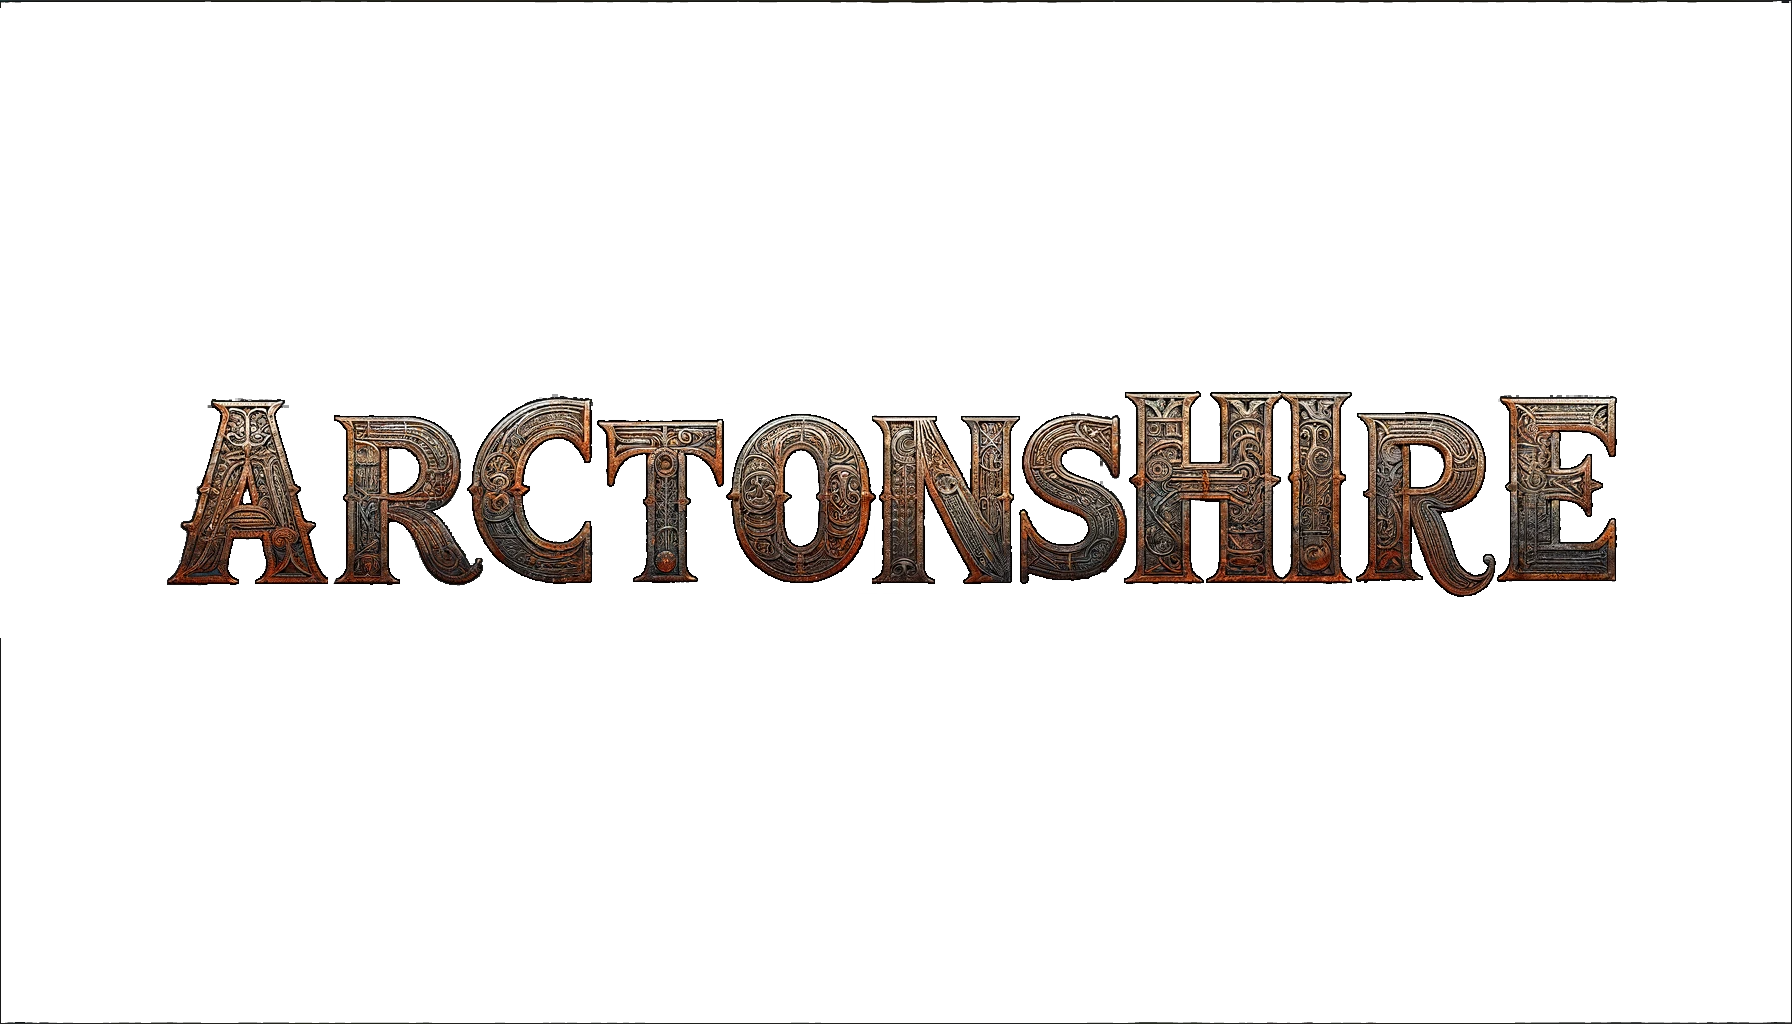
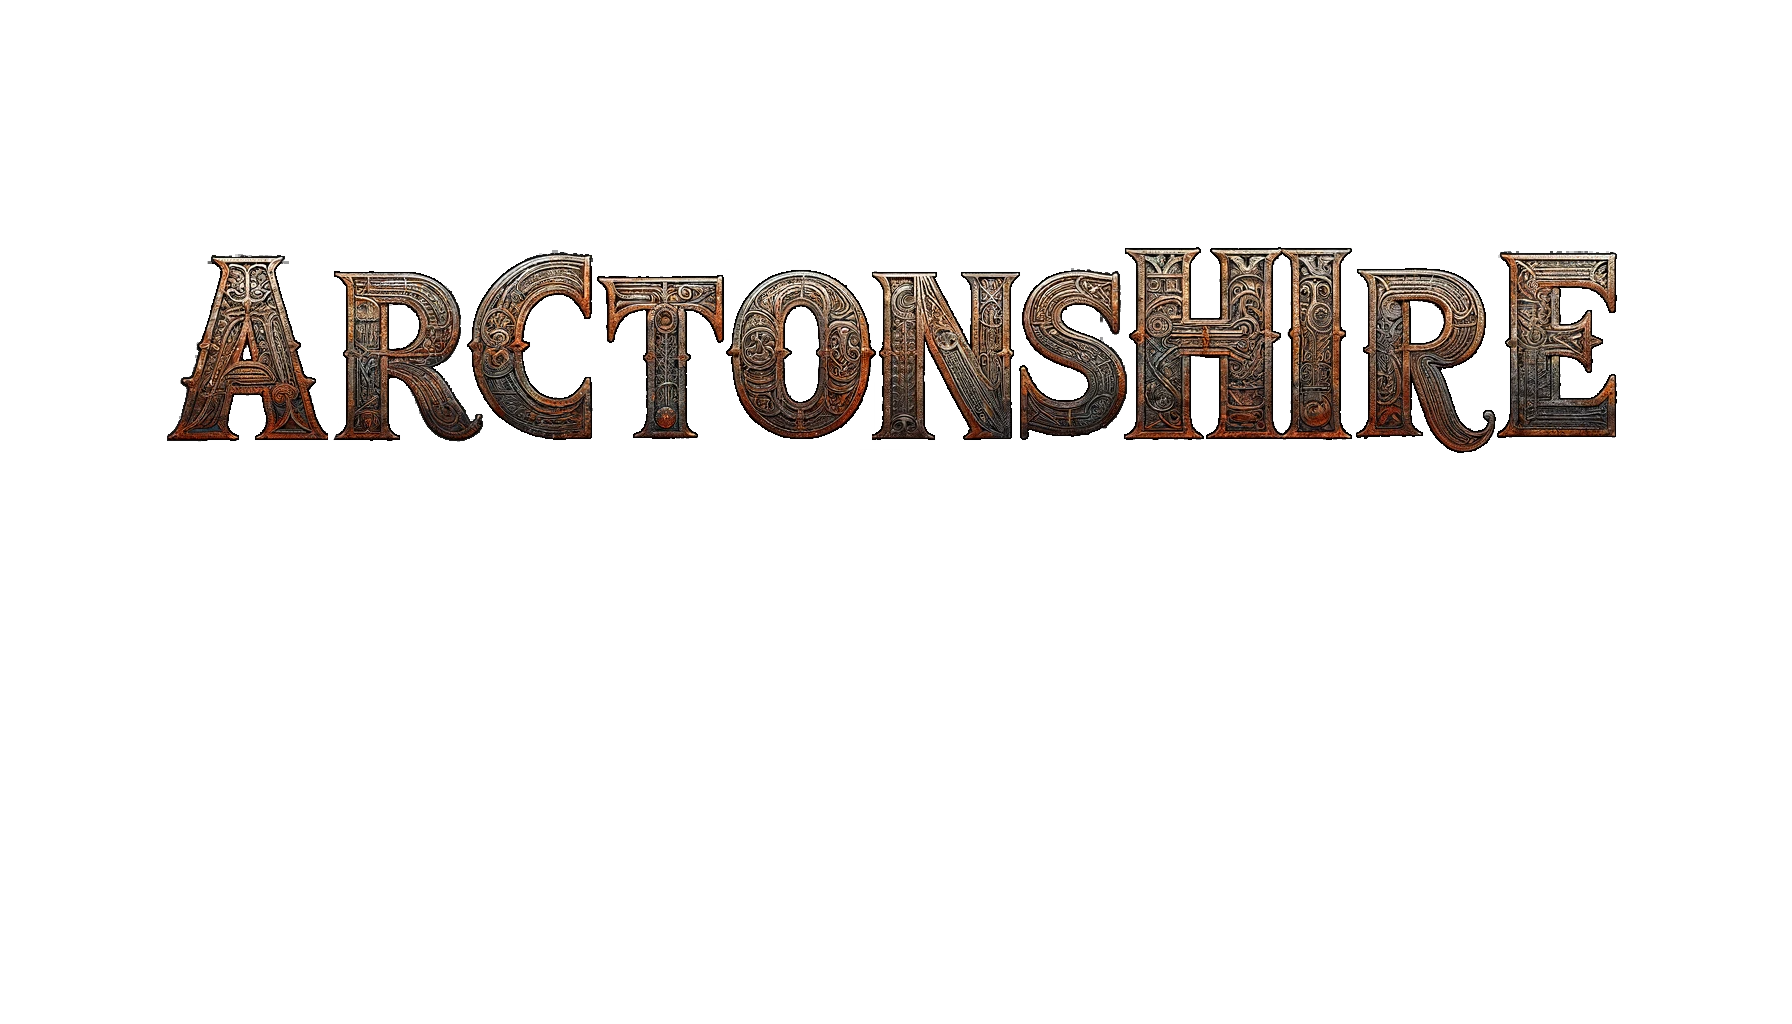
Update page

Changed region(s): [[0.0938, 0.2188, 0.9062, 0.5938]]

diff --git a/styles.css b/styles.css
@@ -1,33 +1,27 @@
 body {
     font-family: Arial, sans-serif;
-    margin: 0; /* updated margin */
+    margin: 0;
     text-align: center;
-    background-color: #000000; /* perfect black background */
+    background-color: #000000;
     color: #ffffff;
 }
 
+.container {
+    display: flex;
+    justify-content: center;
+    align-items: center;
+    min-height: 100vh;
+}
+
 .side-image {
-    position: fixed;
-    top: 0;
-    bottom: 0;
-    height: 100%;
-    width: auto;
+    flex: 1;
+    display: flex;
+    justify-content: center;
+    align-items: center;
+    background-color: #000000;
 }
 
-.left {
-    left: 0;
-}
-
-.right {
-    right: 0;
-}
-
-.center-content {
-    text-align: center;
-    position: relative;
-    z-index: 1;
-}
-
+.side-image img,
 .center-image {
     max-width: 100%;
     height: auto;
@@ -35,6 +29,28 @@ body {
     margin: auto;
 }
 
+.center-content {
+    flex: 2;
+    text-align: center;
+    position: relative;
+}
+
+.center-text {
+    position: absolute;
+    top: 60%;
+    left: 50%;
+    transform: translate(-50%, -50%);
+    background-color: rgba(0, 0, 0, 0.7);
+    padding: 20px;
+    border-radius: 10px;
+}
+
 a {
     color: #61dafb;
+    text-decoration: none;
+}
+
+.description {
+    margin: 10px 0;
+    color: #ffffff;
 }

diff --git a/index.html b/index.html
@@ -5,13 +5,21 @@
     <link rel="stylesheet" type="text/css" href="styles.css">
 </head>
 <body>
-    <img src="assets/knight.png" class="side-image left">
-    <div class="center-content">
-        <h1>Welcome to Arctonshire</h1>
-        <p>This is the home of the Arctonshire project on GitHub Pages.</p>
-        <p>Visit our <a href="https://github.com/MichaelStritt/arctonshire">GitHub repository</a> to learn more.</p>
-        <img src="assets/arctonshire.png" class="center-image">
+    <div class="container">
+        <div class="side-image left">
+            <img src="assets/knight.png">
+        </div>
+        <div class="center-content">
+            <a href="https://github.com/MichaelStritt/arctonshire">
+                <img src="assets/arctonshire.png" class="center-image" alt="Arctonshire">
+                <div class="center-text">
+                    <p class="description">Adventure coming soon...</p>
+                </div>
+            </a>
+        </div>
+        <div class="side-image right">
+            <img src="assets/bear.png">
+        </div>
     </div>
-    <img src="assets/bear.png" class="side-image right">
 </body>
 </html>
